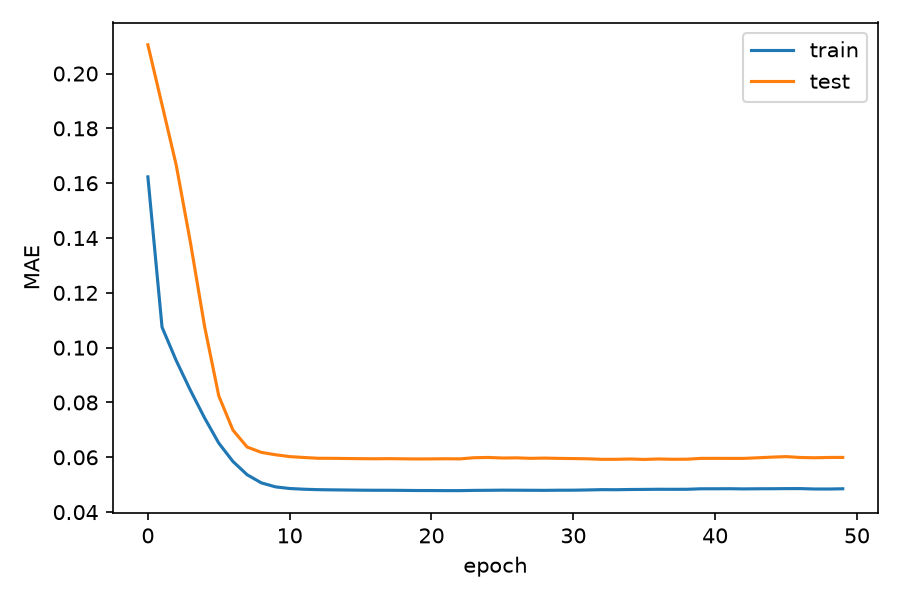
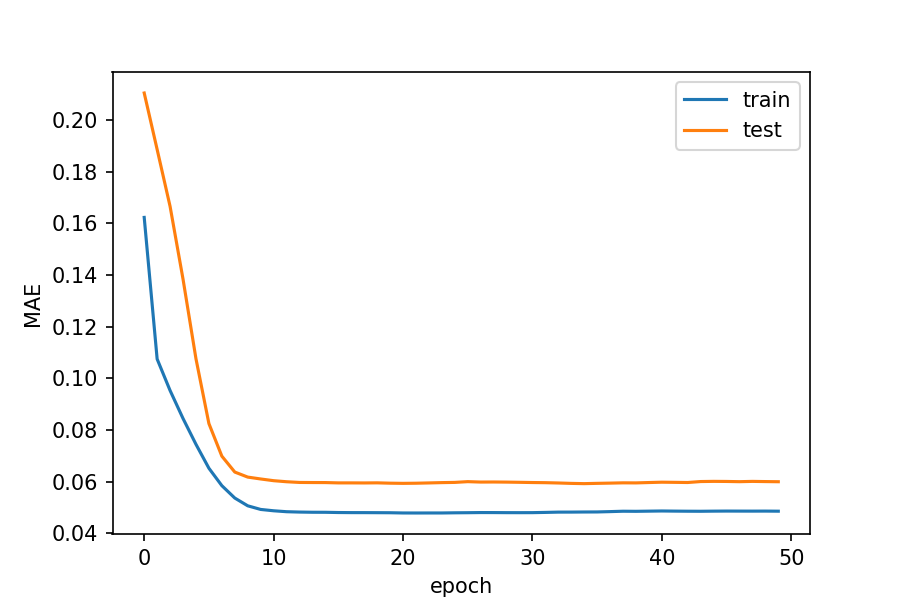
123

diff --git a/lstm_cby_pytorch.py b/lstm_cby_pytorch.py
@@ -1,5 +1,3 @@
-
-
 import numpy as np
 import torch
 from pandas import DataFrame, concat, read_csv
@@ -9,6 +7,8 @@ from torch.utils.data import DataLoader, TensorDataset
 
 
 from torch import nn
+
+from matplotlib import pyplot
 
 def series_to_supervised(data, n_in=1, n_out=1, dropnan=True):
     """把时间序列转化为监督学习数据"""
@@ -33,7 +33,6 @@ def series_to_supervised(data, n_in=1, n_out=1, dropnan=True):
     return result
 
     print("def 跑完了")
-
 
 
 
@@ -63,7 +62,13 @@ def evaluate(model, loader, loss_fn, device):
     return total_loss / sample_count
 
 
-
+def predict (model, loader, device):
+    model.eval()
+    outputs = []
+    with torch.no_grad():
+        for inputs, _ in loader:
+            outputs.append(model(inputs.to(device)).cpu().numpy())
+    return np.concatenate(outputs)
 
 
 
@@ -153,8 +158,27 @@ for epoch in range(epochs):
     test_losses.append(test_loss)
     print(f"Epoch {epoch + 1:02d}/{epochs} - loss: {train_loss:.6f} - val_loss: {test_loss:.6f}")
 
+predicted_scaled = predict(model, test_loader, device)
+
+power_min = scaler.data_min_[0]
+power_range = scaler.data_range_[0]
+predicted_power = predicted_scaled * power_range + power_min
+actual_power = test_y * power_range + power_min
 
 
+rmse = float(np.sqrt(np.mean((actual_power - predicted_power) ** 2)))
+nonzero = actual_power != 0
+mape = float(np.mean(np.abs((predicted_power[nonzero] - actual_power[nonzero]) / actual_power[nonzero])))
+print(f"Test RMSE: {rmse:.3f}")
+print(f"Test MAPE: {mape:.3%}")
+
+pyplot.plot(train_losses, label="train")
+pyplot.plot(test_losses, label="test")
+pyplot.xlabel("epoch")
+pyplot.ylabel("MAE")
+pyplot.legend()
+pyplot.savefig("lstm_cby_pytorch_loss.png", dpi=150)
+print("损失曲线已保存到 lstm_cby_pytorch_loss.png，程序正常结束。")
 
 
 print(len(raw_values))

diff --git a/sth.md b/sth.md
@@ -1,0 +1,14 @@
+
+
+
+
+
+
+
+
+
+
+
+
+
+